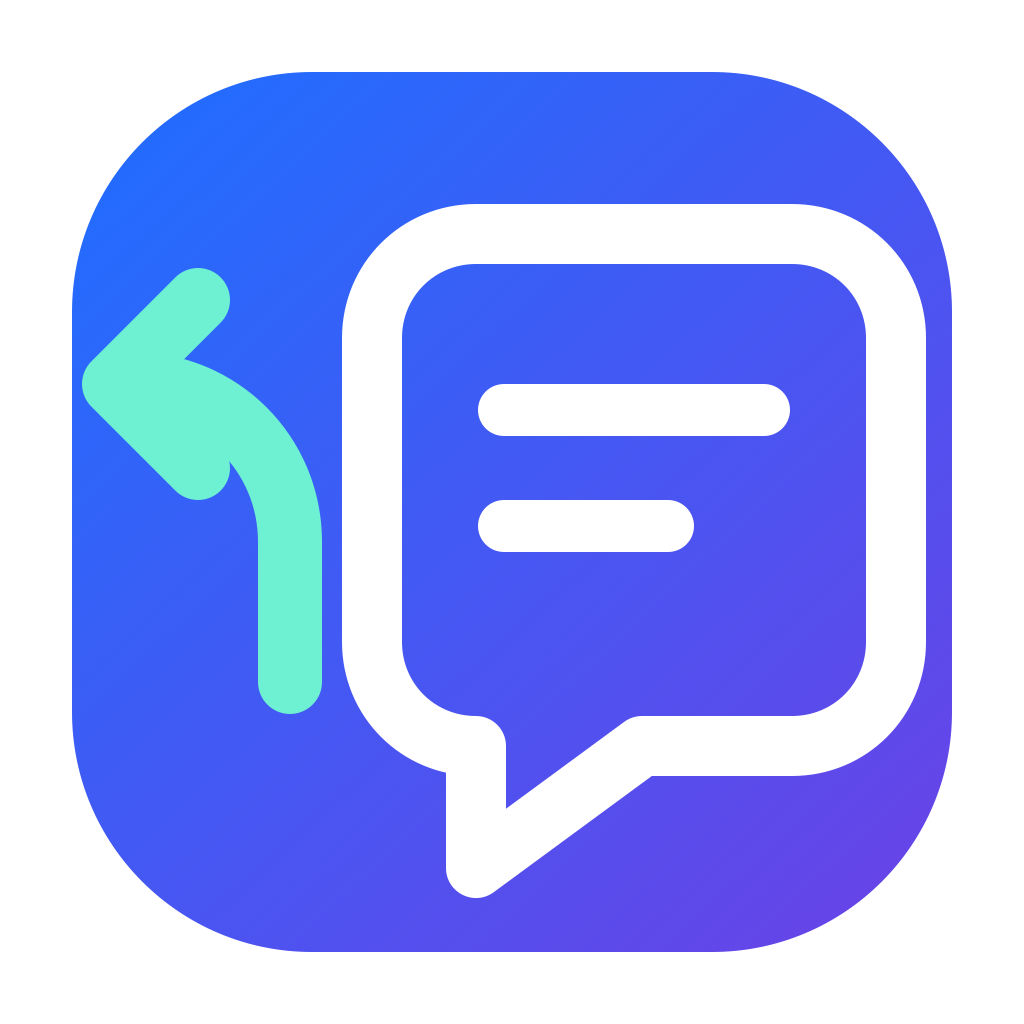
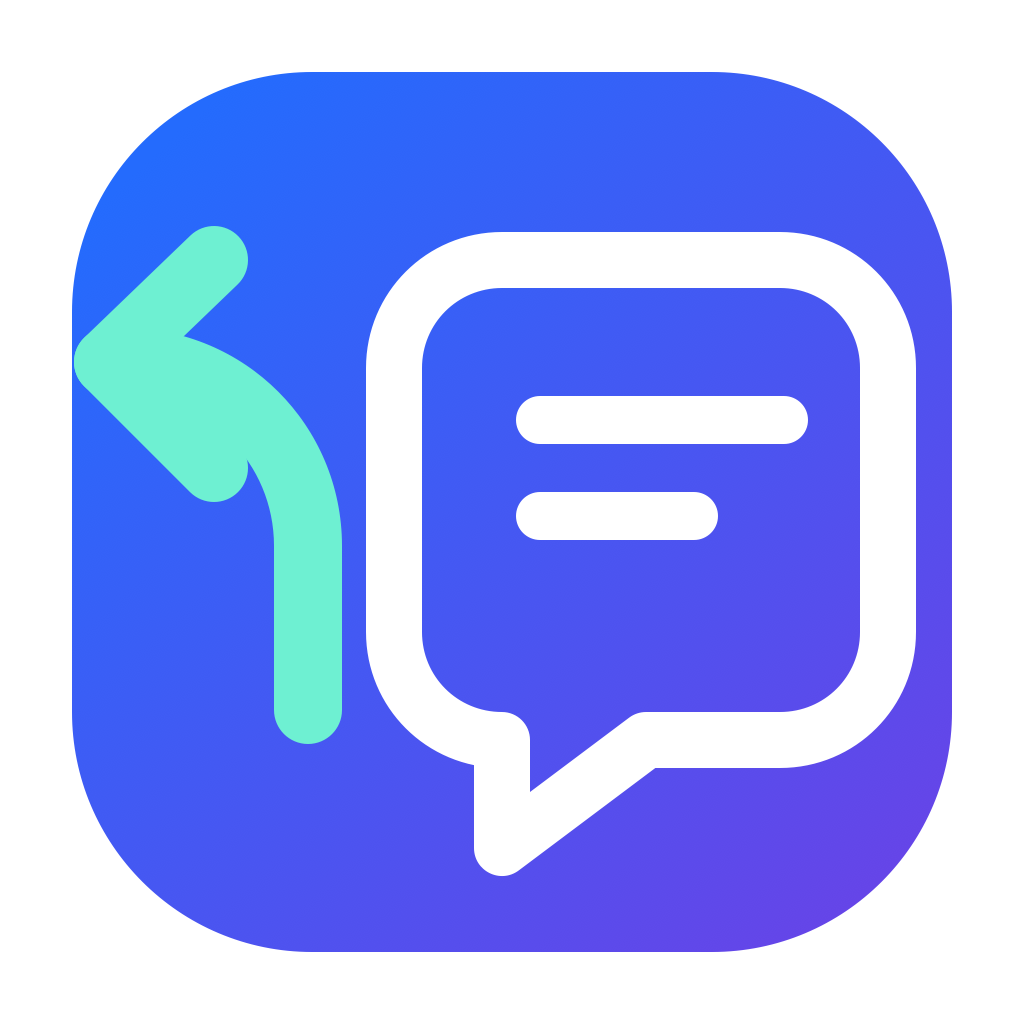
Polish ThreadRelink branding (#5)
Rebalance the logo, clarify the extension description, and document the Azure Free Trial publishing contingency without releasing a new Marketplace version.

diff --git a/packages/vscode/test/manifest.test.ts b/packages/vscode/test/manifest.test.ts
@@ -46,7 +46,7 @@ describe("VS Code extension manifest", () => {
     expect(manifest.publisher).toBe("ascendho");
     expect(manifest.displayName).toBe("ThreadRelink");
     expect(manifest.description).toBe(
-      "A VS Code extension that keeps local Codex conversations discoverable after a repository is renamed or moved.",
+      "A VS Code extension that keeps local Codex conversations connected to their projects after repositories are renamed or moved.",
     );
     expect(manifest.version).toMatch(/^\d+\.\d+\.\d+$/);
     expect(manifest.pricing).toBe("Free");

diff --git a/docs/MARKETPLACE_PUBLISHING.md b/docs/MARKETPLACE_PUBLISHING.md
@@ -69,6 +69,27 @@ Token。
 9. 再次运行身份检查，将 `verify_access` 设置为 `true`。检查成功前不要创建
    Release。
 
+## Azure Free Trial 到期后的备用方案
+
+Marketplace 发布本身不会消耗 Azure Free Trial 额度，但当前的 user-assigned
+managed identity 是 Azure subscription 中的资源。Free Trial 到期后，先手动运行
+**Check Marketplace Publishing Identity**，并将 `verify_access` 设置为 `true`：
+
+- 如果检查成功，继续使用当前 identity，不做迁移。
+- 如果检查因为 subscription 已禁用而失败，再迁移到不依赖 subscription 的
+  Microsoft Entra app registration。
+
+迁移时使用现有 GitHub OIDC issuer、不可变 subject 和 audience 创建 app
+federated credential，将 GitHub Environment 中的 `AZURE_CLIENT_ID` 改为新
+application client ID，并在两个工作流的 `azure/login` 步骤中删除
+`subscription-id`、添加 `allow-no-subscriptions: true`。先以
+`verify_access: false` 取得新 identity 的 Marketplace profile ID，将其添加为
+publisher Contributor，再以 `verify_access: true` 验证访问。
+
+只有新 identity 成功发布一个版本后，才移除旧 Marketplace Contributor，并删除
+旧 managed identity 和空 resource group。不要仅因为 Free Trial 即将到期就升级为
+按量付费订阅。
+
 ## 发布新版本
 
 1. 将 `packages/vscode/package.json` 更新为新的 `X.Y.Z` 版本。

diff --git a/packages/vscode/CHANGELOG.md b/packages/vscode/CHANGELOG.md
@@ -1,5 +1,12 @@
 # Changelog
 
+## Unreleased
+
+- Rebalance the ThreadRelink logo so the return arrow has more room and visual
+  weight.
+- Describe the extension as keeping Codex conversations connected to their
+  projects after repository renames or moves.
+
 ## 0.4.1
 
 - Repair stale automatic conversation links when the current project has

diff --git a/CHANGELOG.md b/CHANGELOG.md
@@ -1,5 +1,12 @@
 # Changelog
 
+## Unreleased
+
+- Rebalance the ThreadRelink logo so the return arrow has more room and visual
+  weight.
+- Clarify the VS Code extension description and document the Azure free-trial
+  publishing contingency.
+
 ## 0.4.1
 
 - Repair stale automatic conversation links when the current project has
